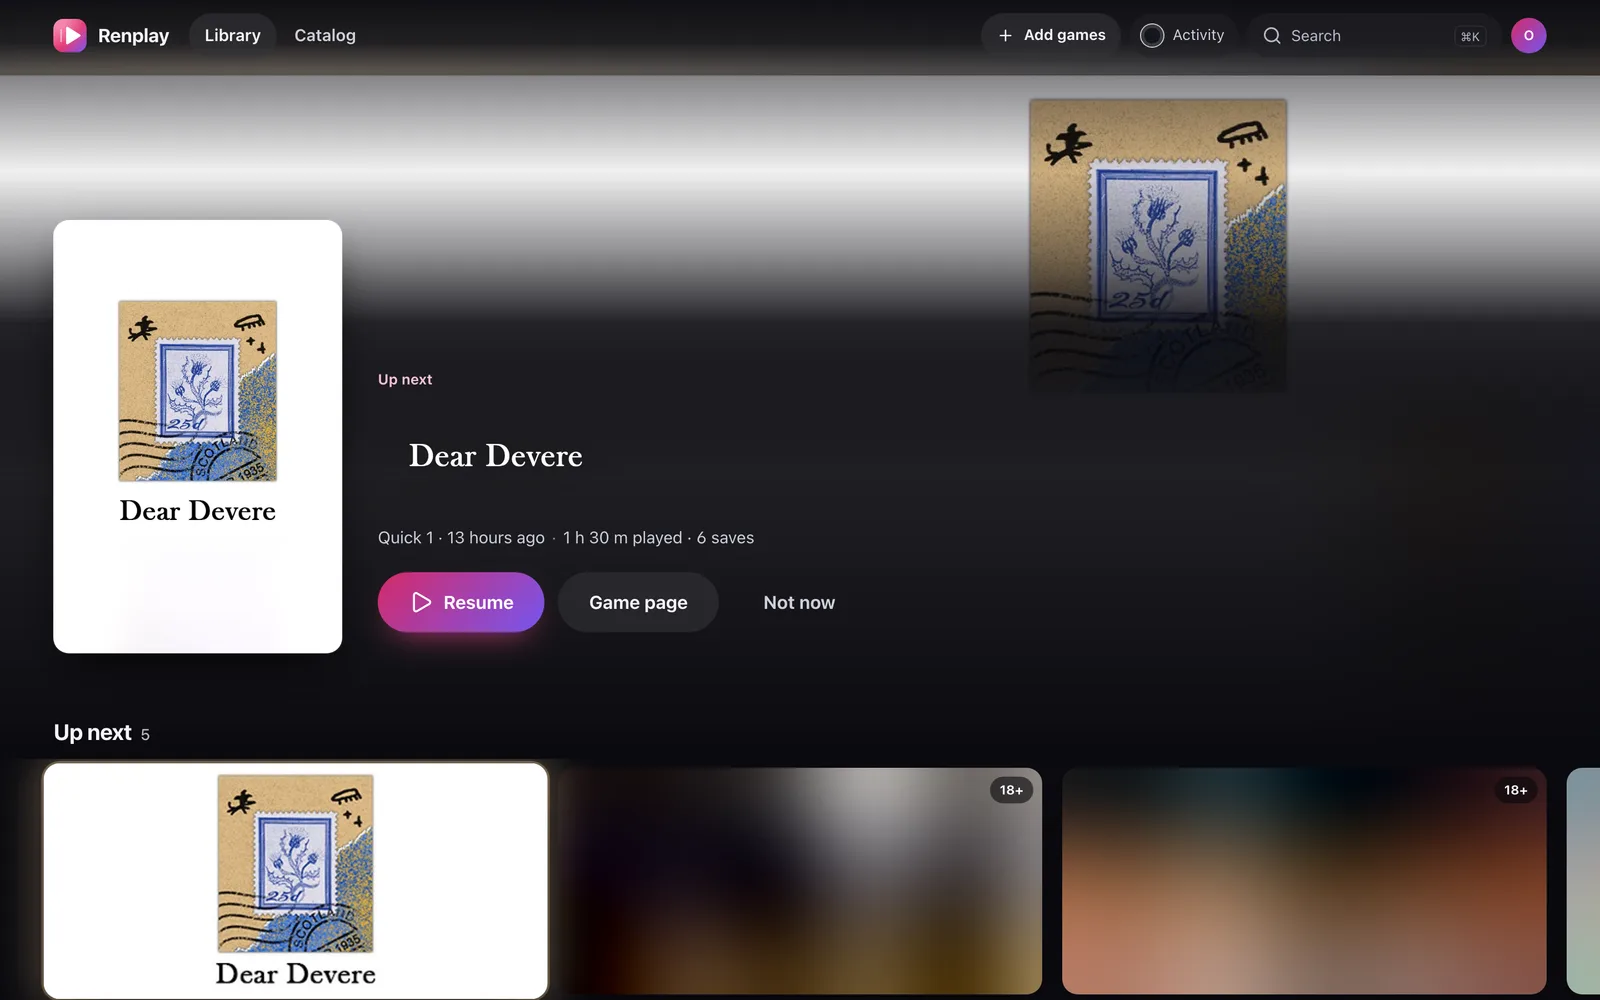
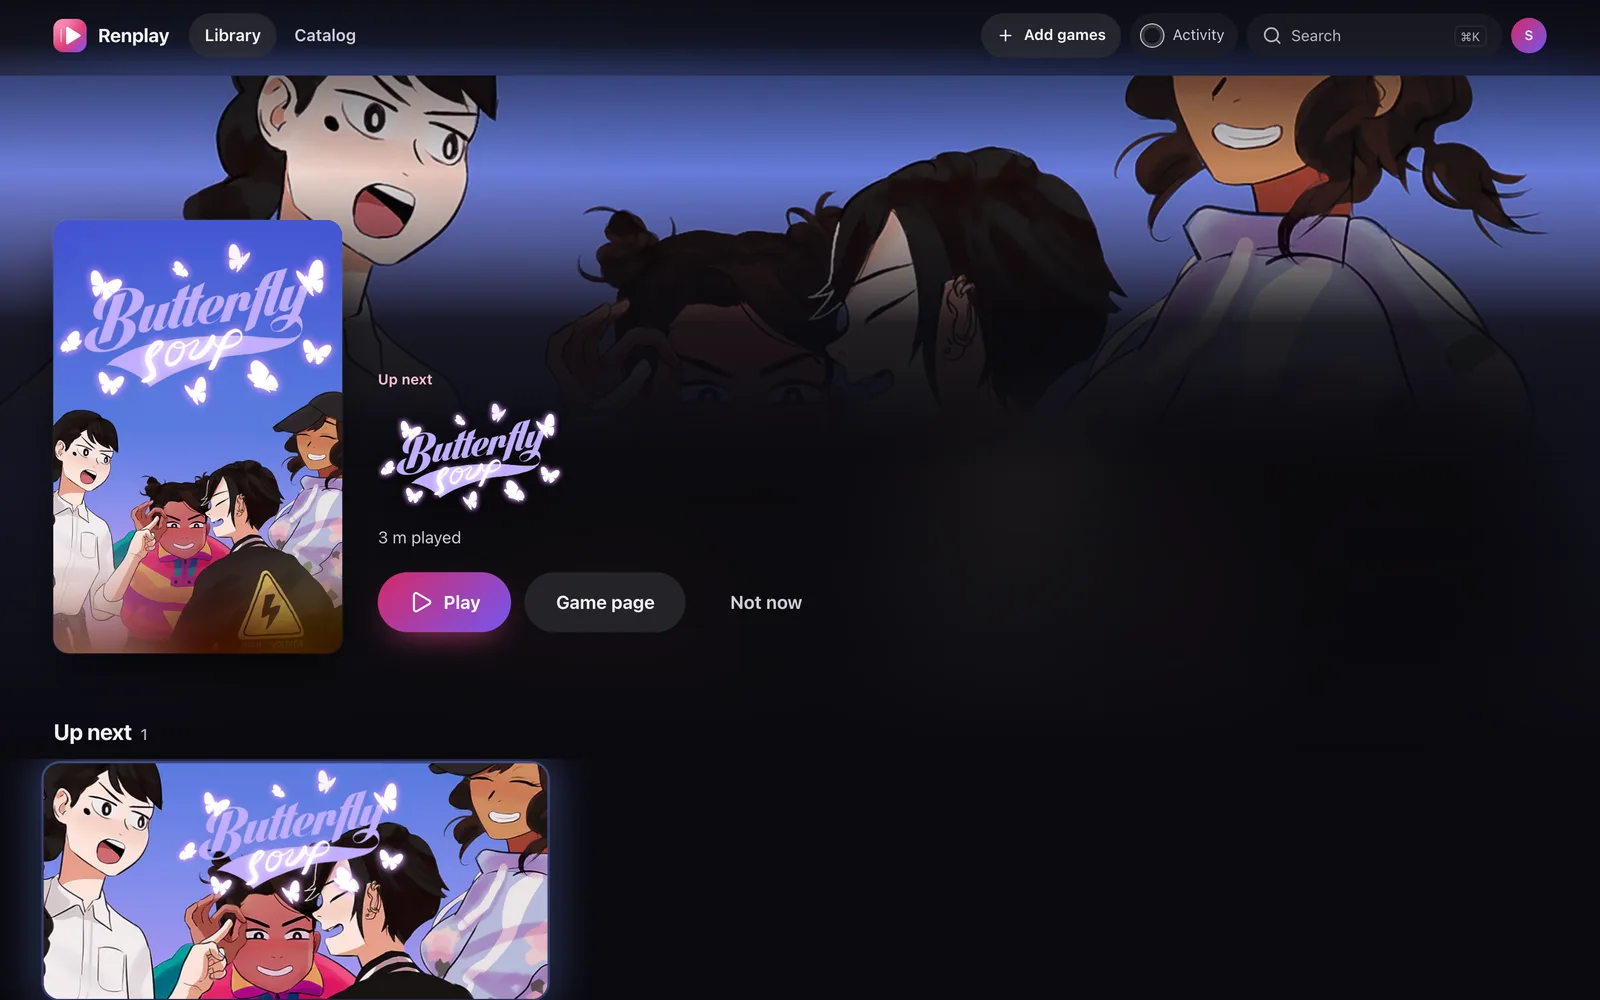
feat: Butterfly Soup on the home page and in the social card, and search basics for the docs
New home pictures and social card with Butterfly Soup instead of Dear Devere, taken
from a local Renplay with adult games Off. The docs get og:type website on the home,
a title that says what they are, TechArticle and breadcrumb data, favicon.ico and an
app icon, a robots.txt with the sitemap, a named menu, a search pill with its label
on phones and unique landmarks. Tap targets on the website are at least 40 px.

Tested: sh website/build.sh, npm run build in docs/site, axe and tap-target audit.

diff --git a/website/site.css b/website/site.css
@@ -31,19 +31,21 @@ img { max-width: 100%; height: auto; }
 nav { position: sticky; top: 0; z-index: 50; -webkit-backdrop-filter: blur(24px) saturate(140%); backdrop-filter: blur(24px) saturate(140%); background: rgb(10 10 16 / .74); border-bottom: 1px solid transparent; transition: border-color .3s; }
 nav.scrolled { border-bottom-color: var(--line); }
 nav .wrap { display: flex; align-items: center; gap: 28px; height: 68px; }
-.brand { display: flex; align-items: center; gap: 10px; font-weight: 700; font-size: 19px; letter-spacing: -.02em; text-decoration: none; }
+.brand { display: flex; align-items: center; min-height: 40px; gap: 10px; font-weight: 700; font-size: 19px; letter-spacing: -.02em; text-decoration: none; }
 .brand img { width: 34px; height: 34px; border-radius: 10px; box-shadow: 0 8px 26px -8px rgb(244 80 138 / .8); }
-nav .links { display: flex; gap: 24px; margin-left: 12px; font-size: 15px; }
-nav .links a { color: var(--dim); text-decoration: none; transition: color .2s; }
+nav .links { display: flex; gap: 12px; margin-left: 12px; font-size: 15px; }
+nav .links a { display: inline-flex; align-items: center; min-height: 40px; padding: 0 6px; color: var(--dim); text-decoration: none; transition: color .2s; }
 nav .links a:hover, nav .links a[aria-current] { color: var(--fg); }
 nav .right { margin-left: auto; display: flex; gap: 10px; align-items: center; }
 nav .menu, nav .links .in-menu, nav .bar-catalog { display: none; }
-nav .menu { font: inherit; cursor: pointer; padding: 8px 10px; }
+nav .menu { font: inherit; cursor: pointer; padding: 8px 10px; min-width: 40px; }
 
 /* Buttons */
 /* Pills, as in the app: one lit (the brand gradient with its glow), the rest quiet plates. */
 .btn { display: inline-flex; align-items: center; justify-content: center; gap: 9px; height: 50px; padding: 0 24px; border-radius: 999px; font-weight: 650; font-size: 16px; text-decoration: none; border: 0; background: rgb(255 255 255 / .1); color: var(--fg); cursor: pointer; transition: transform .2s, filter .2s, background .2s; white-space: nowrap; }
 .btn:hover { background: rgb(255 255 255 / .16); }
+.hero .btn:not(.primary) { background: rgb(14 14 20 / .72); }
+.hero .btn:not(.primary):hover { background: rgb(40 40 52 / .85); }
 .btn:active { transform: scale(.96); }
 .btn.primary { background: var(--brand); color: #fff; box-shadow: var(--glow); }
 .btn.primary:hover { filter: brightness(1.1); box-shadow: 0 16px 34px -12px rgb(244 80 138 / .9); }
@@ -53,7 +55,7 @@ nav .menu { font: inherit; cursor: pointer; padding: 8px 10px; }
 
 /* Hero */
 .hero { text-align: center; padding: 84px 0 0; }
-.chip { display: inline-flex; align-items: center; gap: 8px; padding: 6px 14px 6px 8px; border-radius: 999px; background: rgb(255 255 255 / .05); border: 1px solid var(--line); color: var(--dim); font-size: 14px; }
+.chip { display: inline-flex; align-items: center; gap: 8px; padding: 6px 14px 6px 8px; border-radius: 999px; background: rgb(14 14 20 / .72); border: 1px solid var(--line); color: var(--dim); font-size: 14px; }
 .chip b { color: #fff; font-weight: 600; padding: 2px 9px; border-radius: 999px; background: var(--brand); font-size: 12px; }
 h1 { font-size: clamp(42px, 7.2vw, 84px); line-height: 1.02; letter-spacing: -.045em; margin: 26px auto 0; max-width: 940px; font-weight: 800; }
 .sub { font-size: clamp(18px, 2.2vw, 21px); color: var(--dim); max-width: 690px; margin: 26px auto 34px; line-height: 1.55; }
@@ -127,7 +129,7 @@ h2 { font-size: clamp(32px, 4.6vw, 52px); letter-spacing: -.035em; line-height: 
 /* Install */
 .install { display: grid; grid-template-columns: 1fr 1.25fr; gap: 56px; align-items: start; }
 .tabs { display: inline-flex; gap: 4px; padding: 4px; border-radius: 13px; background: rgb(255 255 255 / .04); border: 1px solid var(--line); margin-bottom: 14px; }
-.tabs button { font: inherit; font-size: 14px; font-weight: 600; color: var(--dim); background: none; border: 0; padding: 7px 14px; border-radius: 9px; cursor: pointer; }
+.tabs button { font: inherit; font-size: 14px; font-weight: 600; color: var(--dim); background: none; border: 0; padding: 0 14px; min-height: 40px; border-radius: 9px; cursor: pointer; }
 .tabs button.on { background: rgb(255 255 255 / .1); color: var(--fg); }
 .code { position: relative; }
 pre { margin: 0; background: #0b0b10; border: 1px solid var(--line); border-radius: 18px; padding: 22px 24px; overflow-x: auto; font: 14.5px/1.75 ui-monospace, SFMono-Regular, Menlo, monospace; color: #e9e9f1; }
@@ -161,8 +163,8 @@ details p { margin: 0 0 20px; color: var(--dim); font-size: 16px; }
 .final h2 { font-size: clamp(36px, 5.4vw, 64px); }
 .final .cta { margin-top: 34px; }
 footer { margin-top: 90px; padding: 34px 0 52px; border-top: 1px solid var(--line); color: var(--faint); font-size: 14px; }
-footer .row { display: flex; flex-wrap: wrap; gap: 22px; align-items: center; }
-footer .row a { text-decoration: none; color: var(--dim); }
+footer .row { display: flex; flex-wrap: wrap; gap: 0 10px; align-items: center; }
+footer .row a { display: inline-flex; align-items: center; min-height: 40px; padding: 0 6px; text-decoration: none; color: var(--dim); }
 footer .row a:hover { color: var(--fg); }
 footer small { display: block; margin-top: 18px; line-height: 1.6; }
 

diff --git a/docs/site/src/routeData.ts b/docs/site/src/routeData.ts
@@ -1,14 +1,34 @@
 import { defineRouteMiddleware } from '@astrojs/starlight/route-data'
 
 const SITE = 'Renplay docs'
+const HOME_TITLE = 'Renplay docs · Install and use Renplay'
 
 /** Titles read "<Page> · Renplay docs"; the home page is just "Renplay docs". */
 export const onRequest = defineRouteMiddleware((context) => {
   const route = context.locals.starlightRoute
   const home = route.id === ''
-  const title = home ? SITE : `${route.entry.data.title} · ${SITE}`
+  const title = home ? HOME_TITLE : `${route.entry.data.title} · ${SITE}`
   for (const tag of route.head) {
     if (tag.tag === 'title') tag.content = title
     if (tag.tag === 'meta' && tag.attrs?.property === 'og:title') tag.attrs.content = title
+    if (tag.tag === 'meta' && tag.attrs?.name === 'twitter:title') tag.attrs.content = title
+    // The home is a website, every other page an article.
+    if (tag.tag === 'meta' && tag.attrs?.property === 'og:type' && home) tag.attrs.content = 'website'
   }
+  const url = new URL(route.id ? `${route.id}/` : '', 'https://docs.renplay.org/').href
+  const crumbs = [{ name: 'Renplay docs', url: 'https://docs.renplay.org/' }, ...(home ? [] : [{ name: route.entry.data.title, url }])]
+  route.head.push(
+    {
+      tag: 'script',
+      attrs: { type: 'application/ld+json' },
+      content: JSON.stringify(home
+        ? { '@context': 'https://schema.org', '@type': 'WebSite', name: SITE, url, description: route.entry.data.description, publisher: { '@type': 'Organization', name: 'Renplay', url: 'https://renplay.org' } }
+        : { '@context': 'https://schema.org', '@type': 'TechArticle', headline: route.entry.data.title, description: route.entry.data.description, url, inLanguage: 'en', isPartOf: { '@type': 'WebSite', name: SITE, url: 'https://docs.renplay.org/' }, publisher: { '@type': 'Organization', name: 'Renplay', url: 'https://renplay.org' } }),
+    },
+    {
+      tag: 'script',
+      attrs: { type: 'application/ld+json' },
+      content: JSON.stringify({ '@context': 'https://schema.org', '@type': 'BreadcrumbList', itemListElement: crumbs.map((c, i) => ({ '@type': 'ListItem', position: i + 1, name: c.name, item: c.url })) }),
+    },
+  )
 })

diff --git a/website/catalog.css b/website/catalog.css
@@ -73,7 +73,7 @@ dialog[open] { animation: pop .3s cubic-bezier(.2,.7,.2,1); }
 .how li { display: grid; grid-template-columns: 26px 1fr; gap: 10px; }
 .how li::before { counter-increment: h; content: counter(h); width: 24px; height: 24px; border-radius: 8px; display: grid; place-items: center; font-weight: 700; font-size: 12px; color: #fff; background: linear-gradient(180deg, #f6609a, #d62a68); }
 .how b { color: var(--fg); font-weight: 600; }
-.recipe-link { display: inline-block; margin-top: 18px; color: var(--faint); font-size: 14px; }
+.recipe-link { display: inline-flex; align-items: center; min-height: 40px; margin-top: 10px; color: var(--faint); font-size: 14px; }
 
 .req { padding: 30px; max-width: 560px; }
 .req h2 { font-size: 28px; margin: 0; padding-right: 40px; }
@@ -88,7 +88,7 @@ dialog[open] { animation: pop .3s cubic-bezier(.2,.7,.2,1); }
 
 /* A game's own page */
 .game-page { padding-top: 40px; }
-.crumb { display: inline-block; color: var(--faint); font-size: 14px; text-decoration: none; margin-bottom: 18px; }
+.crumb { display: inline-flex; align-items: center; min-height: 40px; color: var(--faint); font-size: 14px; text-decoration: none; margin-bottom: 10px; }
 .crumb:hover { color: var(--fg); }
 .game-page .sheet { padding: 0; }
 .all-games { margin-top: 56px; }

diff --git a/docs/site/src/styles/renplay.css b/docs/site/src/styles/renplay.css
@@ -173,3 +173,15 @@ starlight-toc a { font-size: .8rem; }
 }
 @media (prefers-reduced-motion: reduce) { .sl-markdown-content .path-card { transition: none; } }
 :root:not([data-has-sidebar]) .docs-search { visibility: hidden; }
+
+/* Touch targets of at least 40 px, and a search pill that says what it is on a phone. */
+.docs-links a, .family-footer a, .docs-home-menu-panel a { display: inline-flex; align-items: center; min-height: 40px; }
+.docs-brand { min-height: 40px; }
+.family-footer a { padding-block: 0; }
+site-search button[data-open-modal], a[href*="/edit/dev/"] { min-height: 40px; min-width: 40px; }
+a[href*="/edit/dev/"] { display: inline-flex; align-items: center; }
+.home-search site-search button[data-open-modal] > span { display: block !important; }
+.sl-menu-button { min-width: 40px; min-height: 40px; }
+@media (max-width: 50rem) {
+  .sidebar-content a[href], starlight-toc a[href], mobile-starlight-toc a[href] { min-height: 40px; display: flex; align-items: center; }
+}
